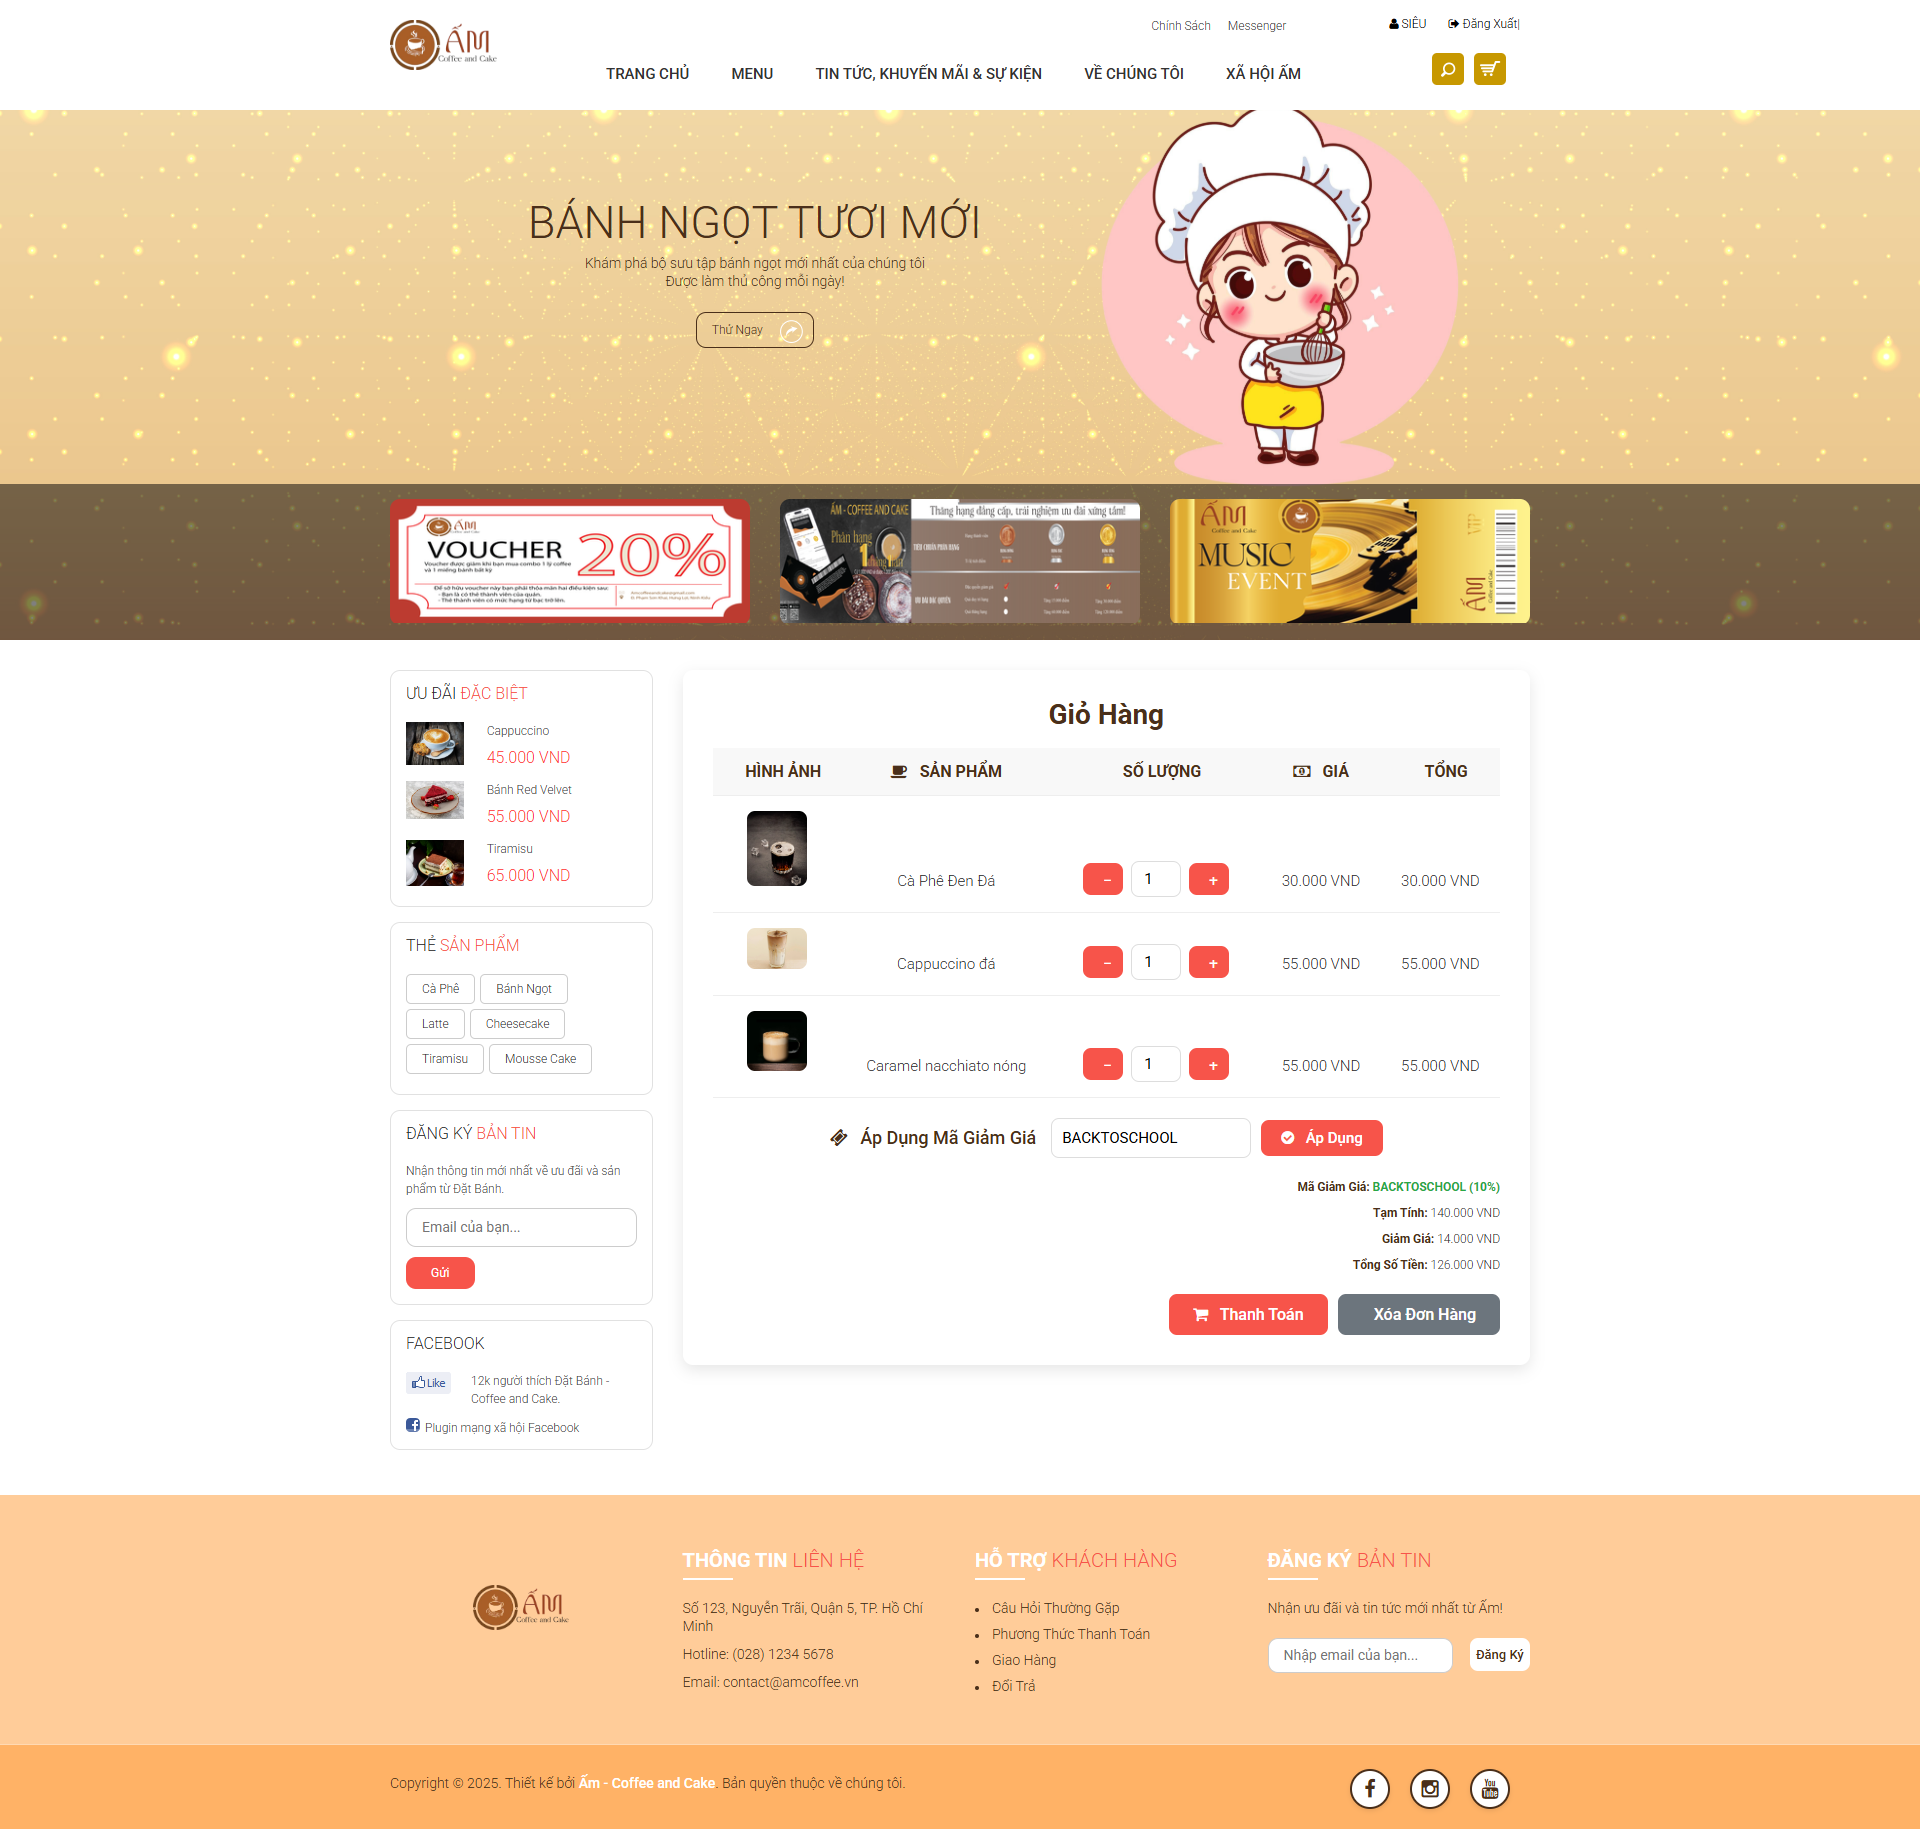
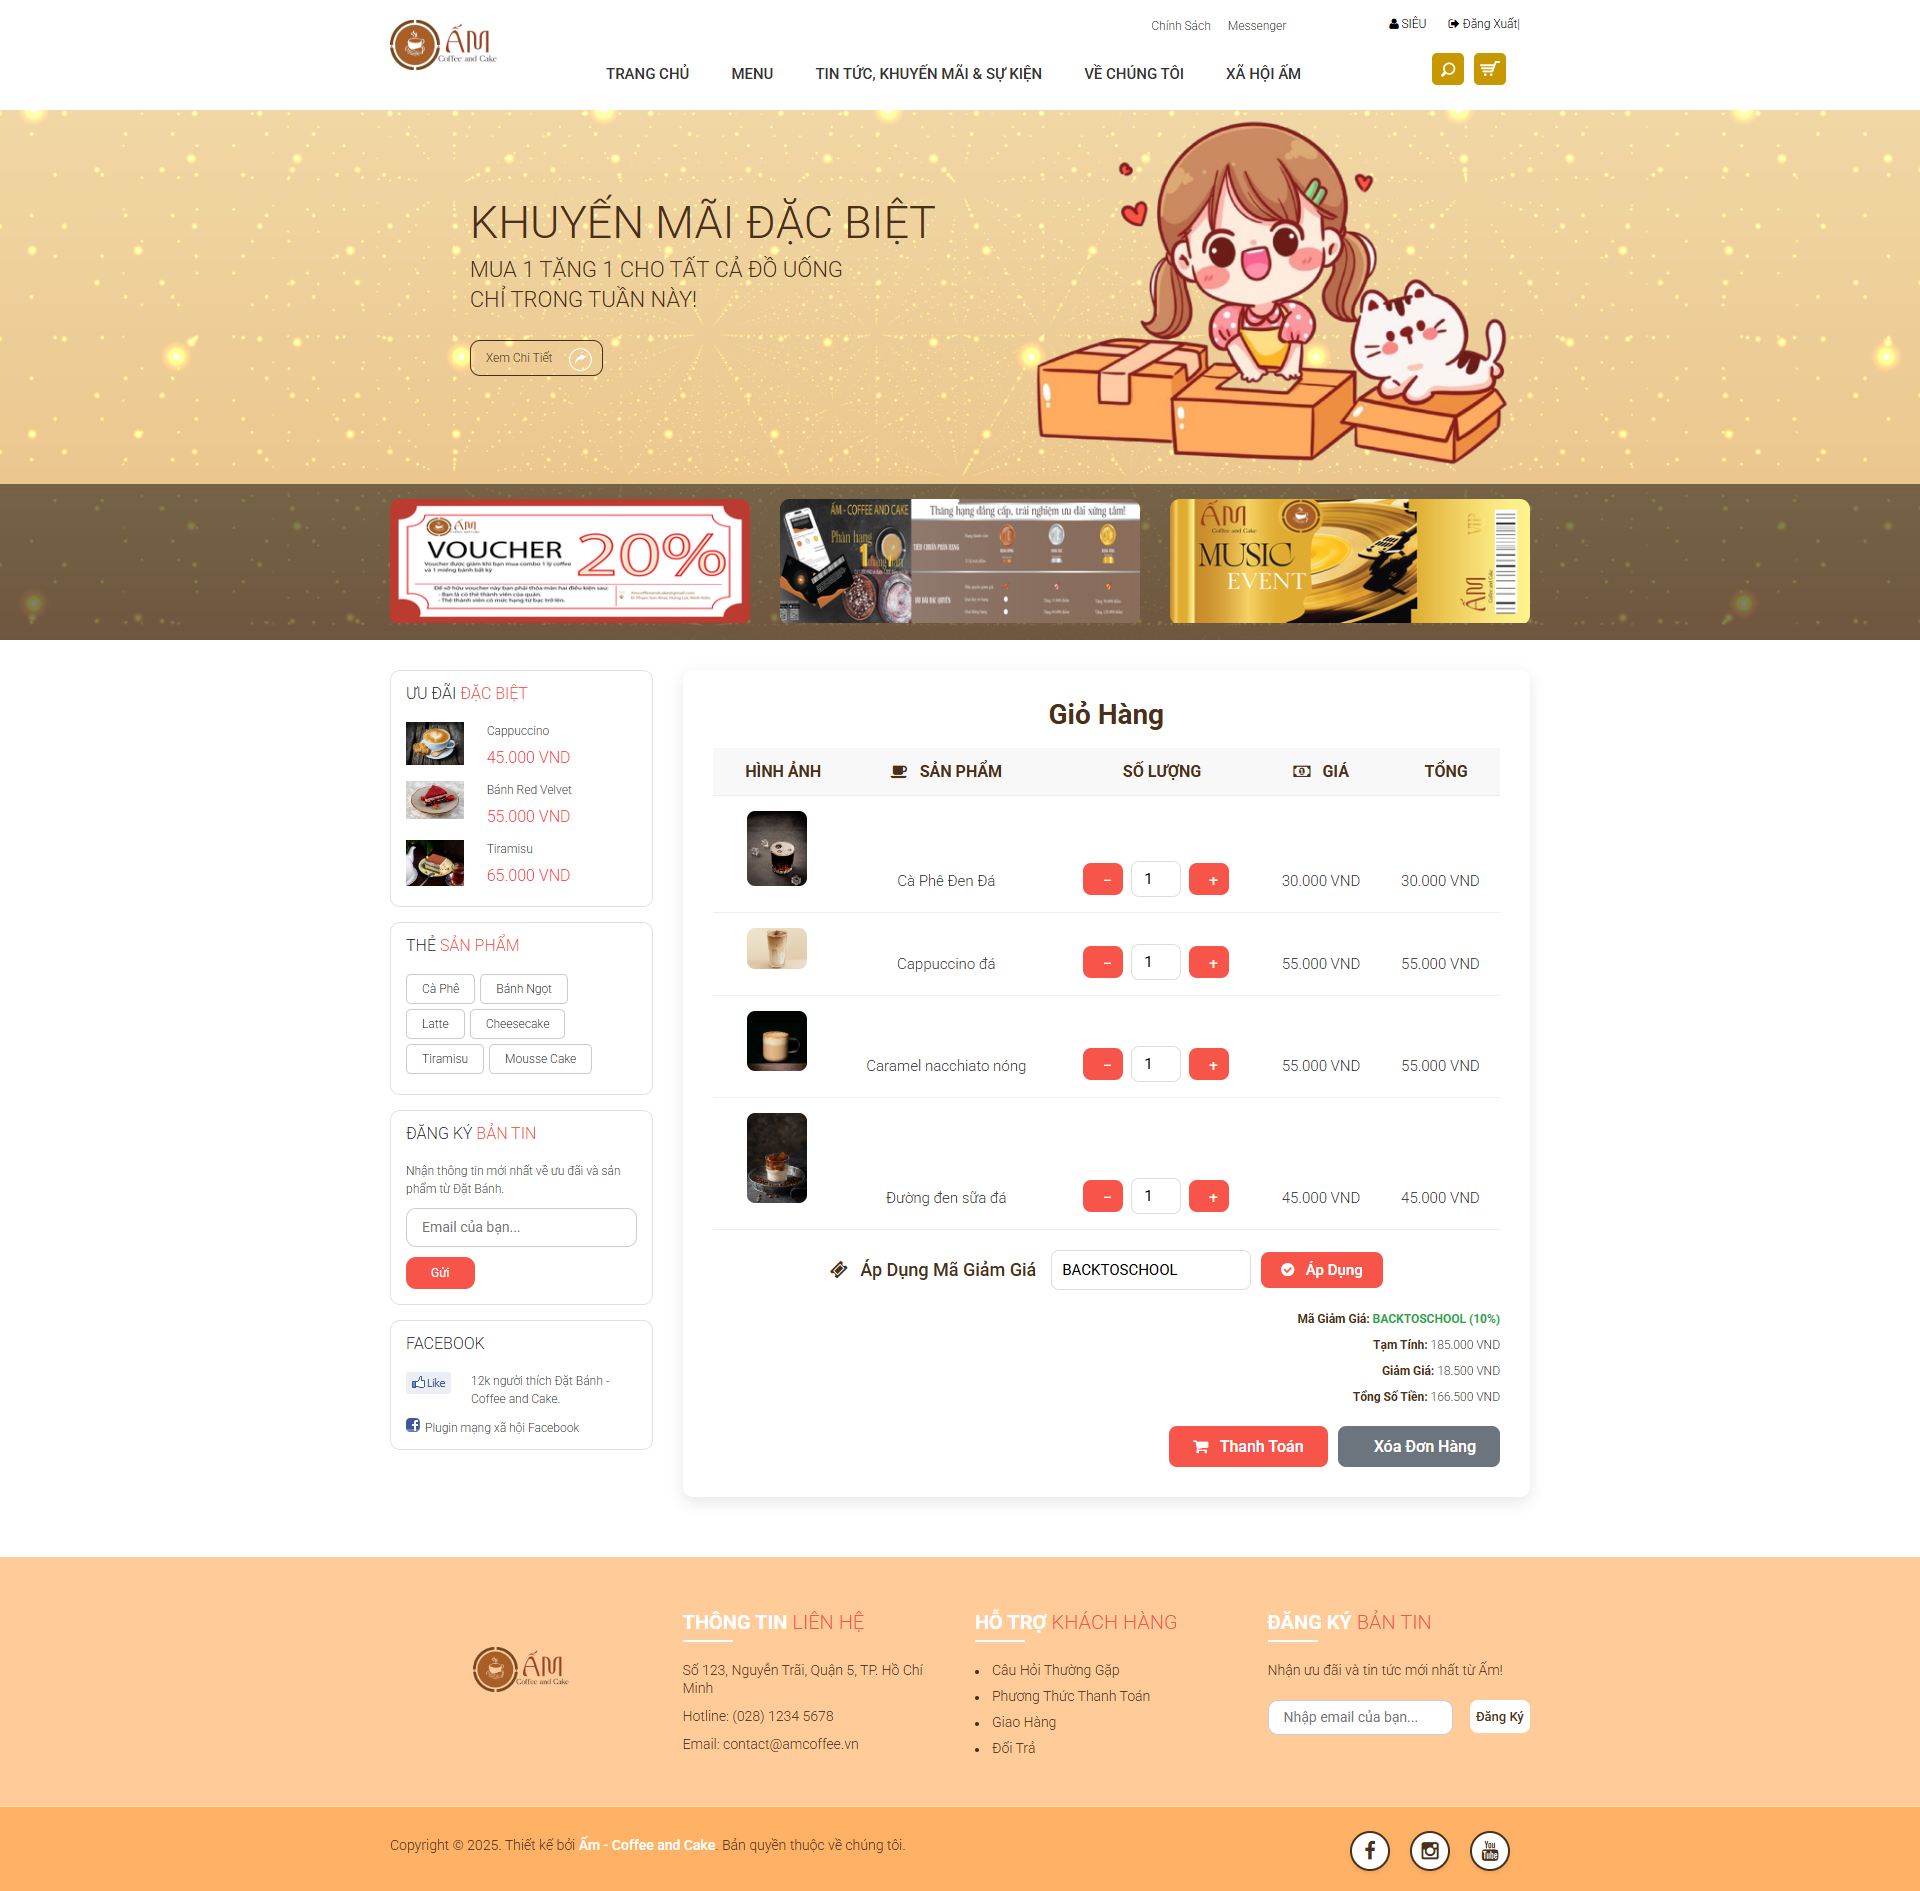
Update: Thêm

diff --git a/checkout.html b/checkout.html
@@ -395,8 +395,6 @@
                                                     <h5 id="customer-title">Thông Tin Khách Hàng</h5>
                                                     <div id="userInfoDisplay" style="display: none;">
                                                         <p><strong>Họ và Tên:</strong> <span id="display-fullname"></span></p>
-                                                        <p><strong>Ngày Sinh:</strong> <span id="display-dob"></span></p>
-                                                        <p><strong>Giới tính:</strong> <span id="display-gender"></span></p>
                                                         <p><strong>Địa Chỉ:</strong> <span id="display-address"></span></p>
                                                         <p><strong>Số Điện Thoại:</strong> <span id="display-phone"></span></p>
                                                         <p><strong>Email:</strong> <span id="display-email"></span></p>
@@ -554,8 +552,6 @@
                                         <div id="orderDetails">
                                             <h6>Thông Tin Khách Hàng</h6><br>
                                             <p><strong>Họ và Tên:</strong> <span id="order-fullname"></span></p>
-                                            <p><strong>Ngày Sinh:</strong> <span id="order-dob"></span></p>
-                                            <p><strong>Giới Tính:</strong> <span id="order-gender"></span></p>
                                             <p><strong>Địa Chỉ:</strong> <span id="order-address"></span></p>
                                             <p><strong>Số Điện Thoại:</strong> <span id="order-phone"></span></p>
                                             <p><strong>Email:</strong> <span id="order-email"></span></p>
@@ -792,16 +788,12 @@
                     document.getElementById('display-email').textContent = user.email || 'Chưa cập nhật';
                     document.getElementById('display-phone').textContent = user.phoneNumber || 'Chưa cập nhật';
                     document.getElementById('display-address').textContent = 'Chưa cập nhật';
-                    document.getElementById('display-dob').textContent = 'Chưa cập nhật';
-                    document.getElementById('display-gender').textContent = 'Chưa cập nhật';
 
                     db.ref('users/' + user.uid).once('value').then((snapshot) => {
                         const userData = snapshot.val();
                         if (userData) {
                             document.getElementById('display-fullname').textContent = userData.fullName || user.displayName || 'Chưa cập nhật';
                             document.getElementById('display-address').textContent = userData.address || 'Chưa cập nhật';
-                            document.getElementById('display-dob').textContent = userData.dob || 'Chưa cập nhật';
-                            document.getElementById('display-gender').textContent = userData.gender || 'Chưa cập nhật';
                             document.getElementById('display-phone').textContent = userData.phone || user.phoneNumber || 'Chưa cập nhật';
                         }
                         syncCustomerInfo(user, userData);
@@ -975,21 +967,17 @@
         });
 
         function syncCustomerInfo(user, userData) {
-            let fullName, email, phone, address, dob, gender;
+            let fullName, email, phone, address;
             if (user && userData) {
                 fullName = userData.fullName || user.displayName || 'Chưa cập nhật';
                 email = user.email || 'Chưa cập nhật';
                 phone = userData.phone || user.phoneNumber || 'Chưa cập nhật';
                 address = userData.address || 'Chưa cập nhật';
-                dob = userData.dob || 'Chưa cập nhật';
-                gender = userData.gender || 'Chưa cập nhật';
             } else {
                 fullName = document.getElementById('guest-fullname').value || 'Chưa nhập';
                 email = document.getElementById('guest-email').value || 'Chưa nhập';
                 phone = document.getElementById('guest-phone').value || 'Chưa nhập';
                 address = document.getElementById('guest-address').value || 'Chưa nhập';
-                dob = 'Chưa nhập';
-                gender = 'Chưa nhập';
             }
 
             document.getElementById('full_name').value = fullName;
@@ -1003,8 +991,6 @@
             document.getElementById('order-email').textContent = email;
             document.getElementById('order-phone').textContent = phone;
             document.getElementById('order-address').textContent = address;
-            document.getElementById('order-dob').textContent = dob;
-            document.getElementById('order-gender').textContent = gender;
         }
 
         function loadDropdownMenu() {
